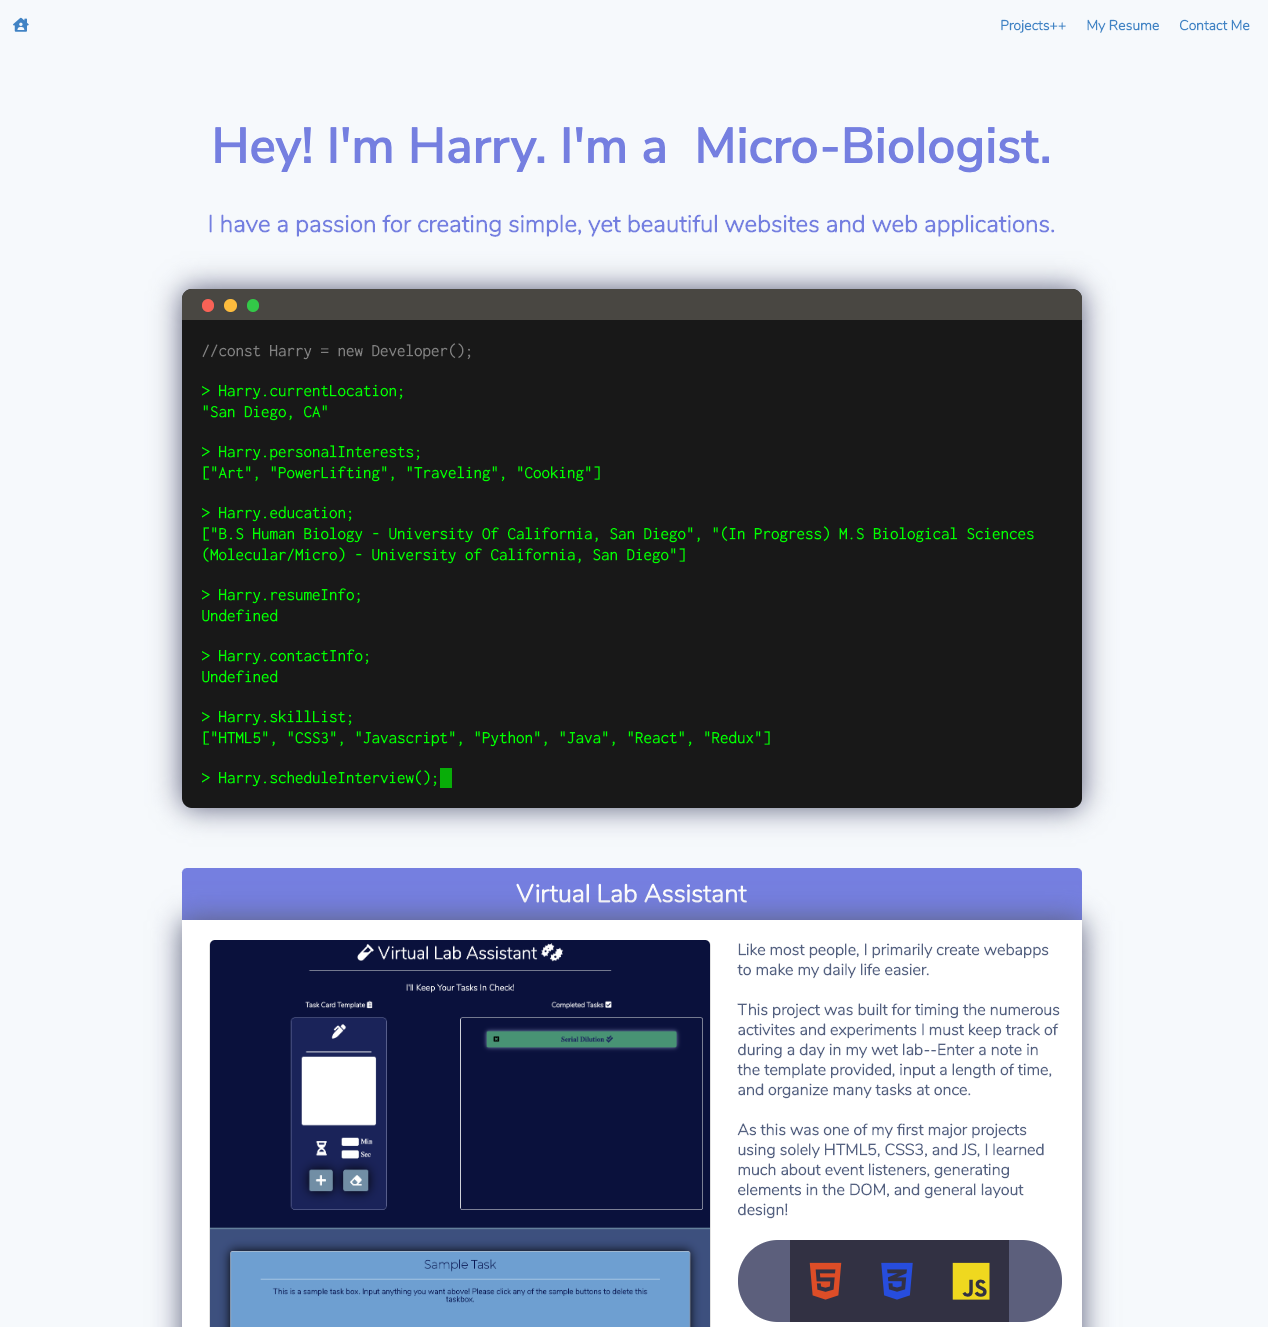
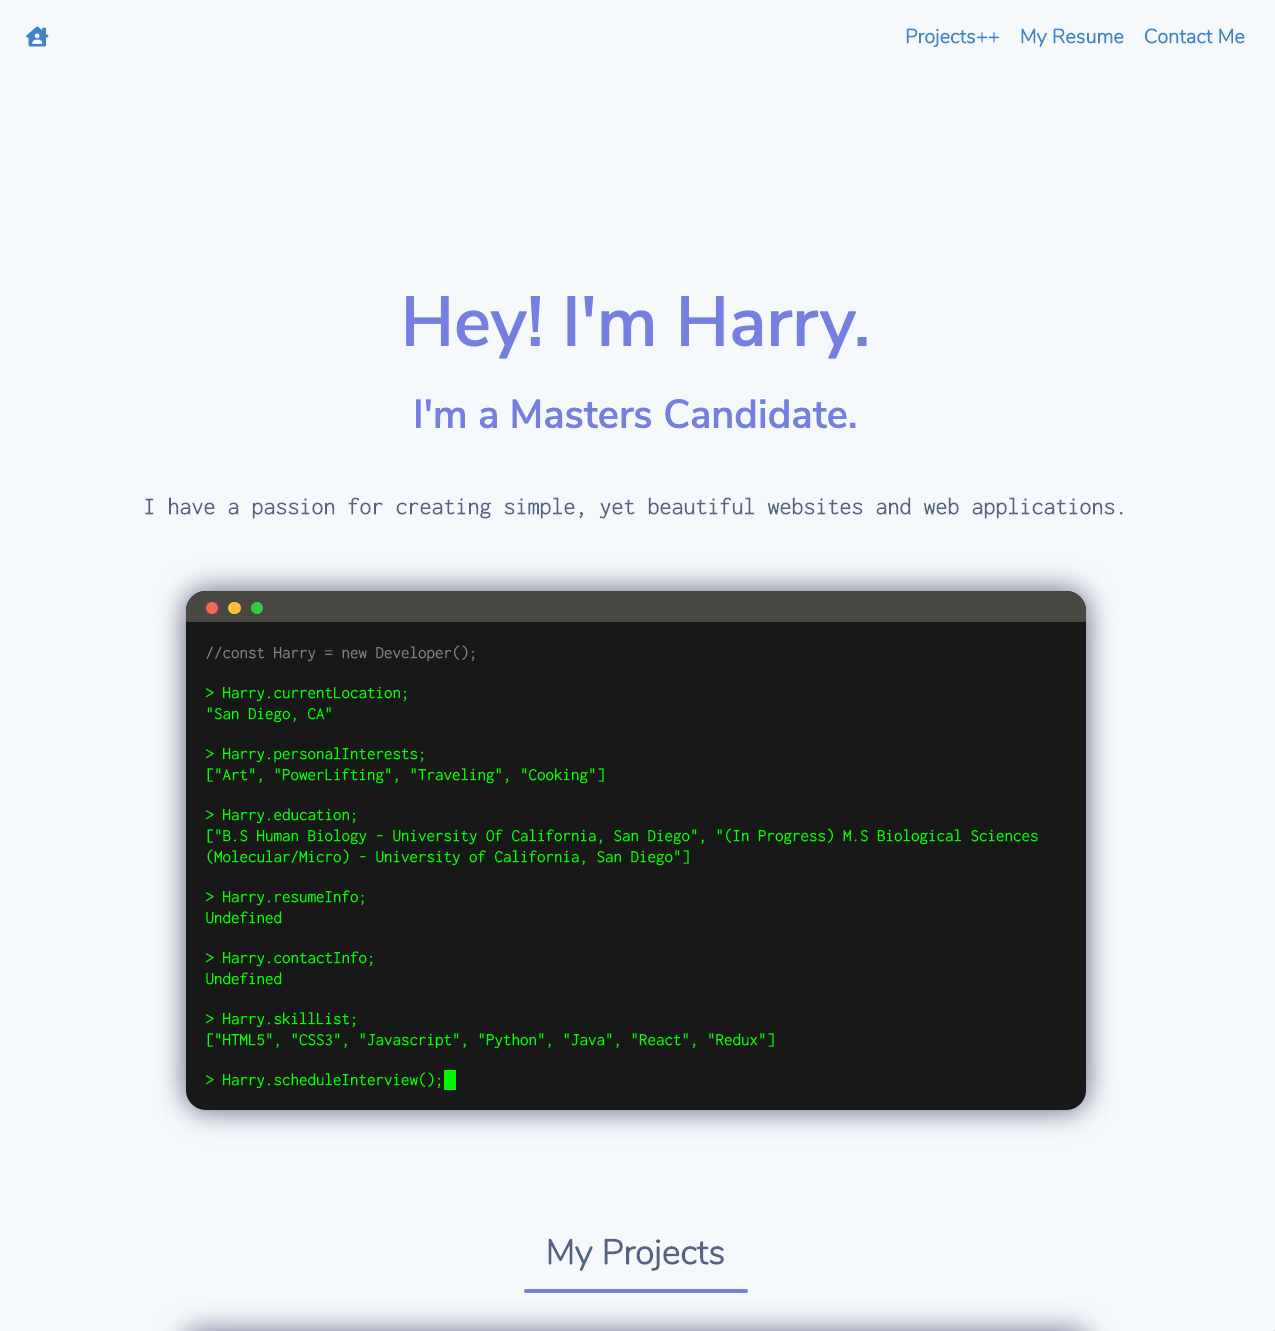
Added Connect Component and Styling Features

diff --git a/src/components/Connect.js b/src/components/Connect.js
@@ -1,0 +1,40 @@
+import React from 'react';
+import '../css/Connect.css';
+
+const Connect = () => {
+    return (
+        <div className='connect-container'>
+            <div className='connect-label'>
+                <h2>Connect With Me!</h2>
+            </div>
+            <div className='options-container'>
+                <div className='option-item'>
+                    <button class="ui google plus button">
+                        <i class="google plus icon"></i>
+                            haz.dev.git@gmail.com
+                    </button>
+                </div>
+                <div className='option-item'>
+                    <button class="ui linkedin button">
+                        <i class="linkedin icon"></i>
+                            LinkedIn
+                    </button>
+                </div>
+                <div className='option-item'>
+                    <button class="ui facebook button">
+                        <i class="facebook icon"></i>
+                            Facebook
+                    </button>
+                </div>
+                <div className='option-item'>
+                    <button class="ui twitter button">
+                        <i class="twitter icon"></i>
+                            Twitter
+                    </button>
+                </div>
+            </div>
+        </div>
+    )
+}
+
+export default Connect;

diff --git a/src/components/App.js b/src/components/App.js
@@ -8,6 +8,7 @@ import ProjectItem1 from './ProjectItem1';
 import virtual_lab_asst from '../imgs/virtual_lab_asst.png';
 import foodFinder from '../imgs/foodFinder.png';
 import oldPortfolioWebsite from '../imgs/oldPortfolioWebsite.png';
+import Connect from './Connect';
 import '../css/body.css';
 
 const projectItemDesc1 = <h4>Like most people, I primarily create webapps to make my daily life easier.<br/><br/> This project was built for timing the numerous activites and experiments I must keep track of during a day in my wet lab--Enter a note in the template provided, input a length of time, and organize many tasks at once.<br/><br/> As this was one of my first major projects using solely HTML5, CSS3, and JS, I learned much about event listeners, generating elements in the DOM, and general layout design!</h4>
@@ -77,6 +78,7 @@ const App = () => {
                         </Fade>
                     </div>
                 </div>
+                <Connect />
             </div>
         </div>
     )

diff --git a/src/components/Navigationbar.js b/src/components/Navigationbar.js
@@ -2,7 +2,6 @@ import React from 'react';
 import Navabout from './Navabout';
 import Navhome from './Navhome';
 import Navprojects from './Navprojects';
-import Navresume from './Navresume';
 import '../css/Navigationbar.css';
 
 
@@ -11,7 +10,6 @@ const Navigationbar = () => {
         <div className='nav-container'>
             <Navhome />
             <Navprojects />
-            <Navresume />
             <Navabout />
         </div>
     )

diff --git a/src/css/Connect.css b/src/css/Connect.css
@@ -1,0 +1,21 @@
+.connect-container {
+    text-align: center;
+    padding: 20px 20px;
+}
+
+.connect-label {
+    padding: 20px 20px;
+}
+
+.connect-label h2 {
+    font-family: 'Nunito', sans-serif;
+    font-size: 30px;
+    color: rgb(84, 97, 128);
+}
+
+.options-container {
+    display: flex;
+    justify-content: center;
+    padding-top: 50px;
+    padding-bottom: 50px;
+}
